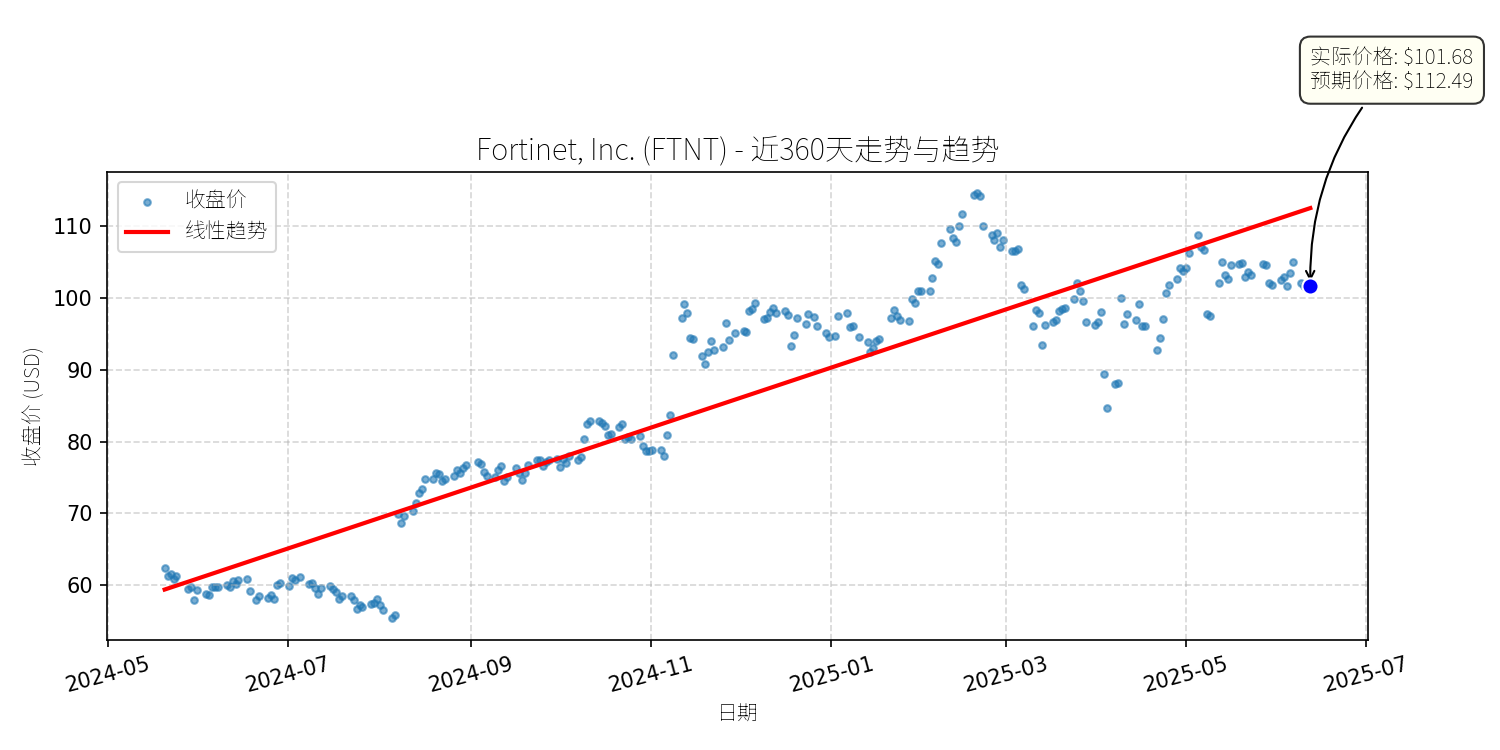
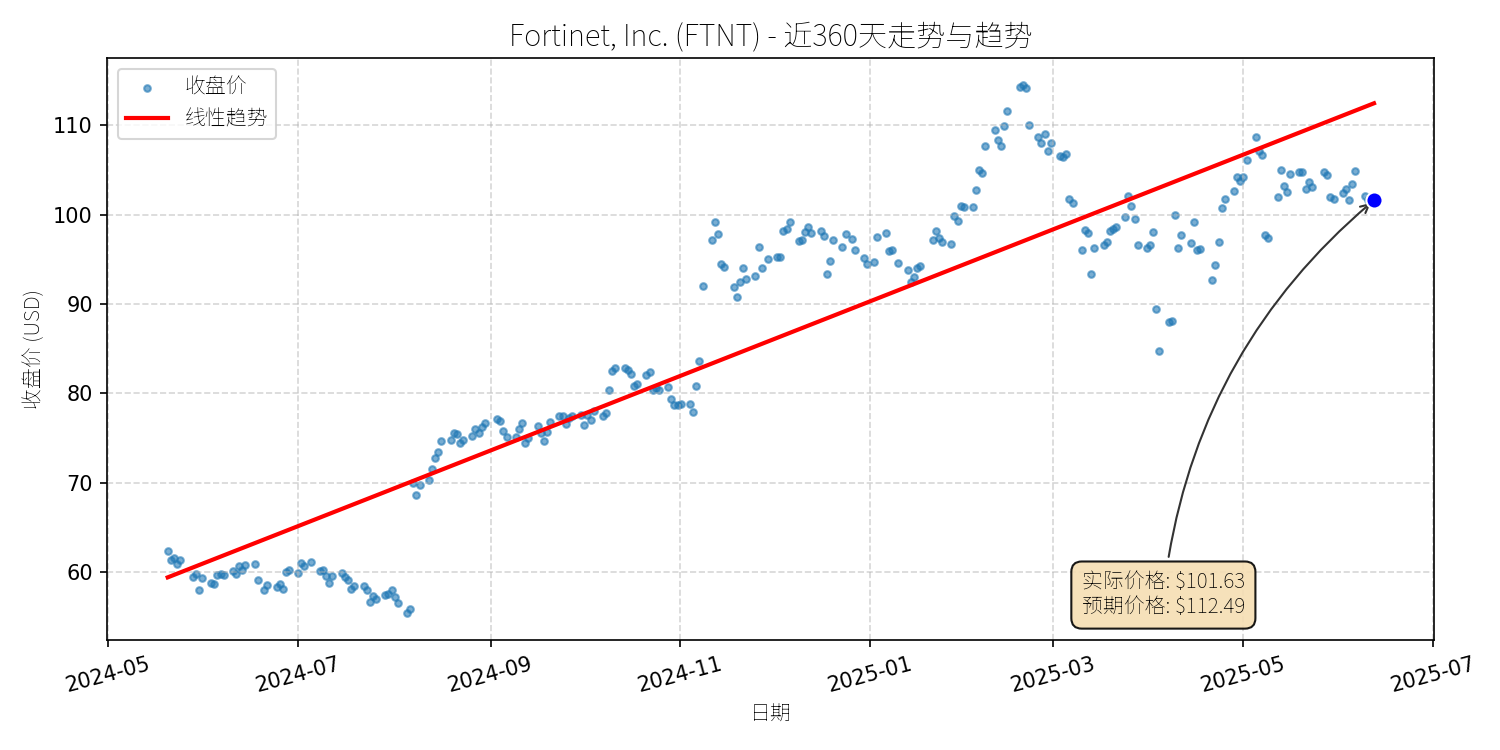
Update report for 2025-06-13

diff --git a/reports/2025-06-13/stock_report.html b/reports/2025-06-13/stock_report.html
@@ -79,164 +79,80 @@
 <body>
     <div class="main-container">
         <aside class="sidebar">
-            <div class="toc"><h3>报告目录</h3><ul><li><a href="#BSX">Boston Scientific Corp. (BSX)</a></li><li><a href="#FTNT">Fortinet, Inc. (FTNT)</a></li></ul></div>
+            <div class="toc"><h3>报告目录</h3><ul><li><a href="#FTNT">Fortinet, Inc. (FTNT)</a></li></ul></div>
         </aside>
         <main class="main-content">
             
         <h1>股票异动分析报告</h1>
         <p class="report-date">报告生成日期: 2025-06-13</p>
     
-            <div class="stock-card" id="BSX">
-                <h2>Boston Scientific Corp. (BSX)</h2>
-                <div class="metrics">
-                    <span>R²: 0.871</span>
-                    <span>斜率: 0.09</span>
-                    <span>偏离度: 8.03%</span>
-                </div>
-                <img src="BSX_chart.png" alt="BSX 走势图" class="chart">
-                <h3>分析师模型总结</h3>
-                <div class="summary-content"># Boston Scientific Corp. (BSX) 投资分析报告（2025-06-13）
-
-
-## **1. 核心业务与基本面评估**
-### **1.1 核心业务概述**  
-Boston Scientific（BSX）是全球领先的医疗设备公司，业务聚焦**心血管**（Cardiovascular）和**医疗外科**（MedSurg）两大核心板块：  
-- **心血管 segment**：占2025年Q1营收的66.3%（$30.9亿），包括心脏科产品（如支架、起搏器）和外周介入设备，2025年Q1有机增长25.6%，是公司增长的核心引擎。  
-- **MedSurg segment**：占2025年Q1营收的33.7%（$15.8亿），涵盖泌尿外科（Urology，2025年Q1增长23.5%）、神经调节（Neuromodulation）和内镜（Endoscopy）等领域，其中泌尿外科是该板块增长最快的子业务。  
-
-此外，公司通过收购强化技术布局（如2025年3月收购SoniVie的TIVUS血管内超声系统），进一步巩固心血管领域的竞争力。
-
-
-### **1.2 基本面指标分析**  
-结合提供的财务数据（Market Cap: $151.54B；PE: 77.91x；PS: 9.05x；PB: 6.89x；EPS Basic: $1.26；Revenue Annual: $16.75B；Net Income Annual: $1.85B；Debt To Equity: 0.79），定性评估如下：  
-- **财务健康状况**：稳健。Debt To Equity（0.79）处于医疗设备行业合理水平（行业均值约0.8-1.0），说明公司杠杆率适中，偿债能力较强。  
-- **盈利能力**：高成长性。2025年Q1营收（$46.6亿）同比增长20.9%（有机增长18.2%），调整后EPS（$0.75）同比大幅增长（远超市场预期的$0.67）；公司上调2025年全年EPS预期至$2.87-$2.94（原预期$2.80-$2.87），显示盈利能力持续提升。  
-- **估值水平**：**短期偏高，长期合理**。Trailing PE（77.91x）显著高于医疗设备行业均值（约30-40x），主要因2024年EPS（$1.26）较低；但Forward PE（基于2025年预期EPS $2.9，约33.85x）处于行业合理区间，反映市场对其高成长性的预期（2025年EPS预计同比增长约128%）。  
-
-
-## **2. 技术面与消息面分析**
-### **2.1 技术面：长期趋势向上，当前回调属技术性调整**  
-根据股价走势图，BSX长期（近360天）呈**线性上升趋势**（红色趋势线），说明市场对其基本面的长期看好。当前价格（$98.17）较“预期价格”（$106.74）出现**显著回调**（约-8%），但未跌破长期趋势线，属于**技术性回调**（如前期上涨后的获利回吐）。
-
-
-### **2.2 消息面：无重大利空，回调与利好消息背离**  
-近期消息均为**利好**，未出现驱动回调的重大利空：  
-- **财报超预期**（2025-04-23）：Q1营收、EPS均 beat 市场 consensus，公司上调全年 outlook，显示业务增长强劲。  
-- **市场需求增长**（2025-05至2025-06）：植入式远程患者监测设备（CAGR 21.7%，2024-2029）、内镜设备（CAGR 7.1%，2024-2030）、结肠镜（CAGR 5.4%，2025-2030）等细分市场均保持高增长，BSX作为领先企业（如植入式监测设备市场的“Leading Companies”）直接受益。  
-- **业务扩展**（2025-03）：收购SoniVie的TIVUS系统，增强心血管领域的技术储备，支撑未来增长。  
-
-综上，回调并非由基本面恶化驱动，而是**市场情绪或技术性因素**（如短期获利回吐）导致。
-
-
-## **3. 综合前景展望与量化判断**
-### **3.1 核心投资逻辑**  
-BSX是**基本面优秀、高成长性的医疗设备龙头**，当前回调是**无明确利空的技术性调整**：  
-- **基本面支撑**：业务增长强劲（Q1有机增长18.2%）、各板块（心血管、泌尿外科）均实现高增长、市场需求（如慢性疾病管理、微创治疗）持续扩张。  
-- **估值合理性**：Forward PE（约33.85x）低于行业高成长企业均值（如Medtronic的Forward PE约35x），且2025年EPS预期大幅增长（约128%），高估值由高成长性支撑。  
-- **技术面韧性**：长期趋势向上，回调未破位，短期买盘或进入推动反弹。
-
-
-### **3.2 短期展望（未来1-4周）**  
-- **走势判断**：**技术性反弹**。因基本面利好（财报超预期、市场增长），回调后买盘或入场，推动股价回升至长期趋势线附近。  
-- **短期目标价**：$103.00（基于：① 长期趋势线附近的合理反弹；② 2025年Q1财报后的价格中枢$100.87，叠加短期情绪修复）。  
-- **涨跌幅空间**：当前价格$98.17，上涨空间约**5%**（(103.00-98.17)/98.17≈5%）。
-
-
-### **3.3 长期展望（未来3-6个月）**  
-- **趋势判断**：**看好**，重回长期上升趋势的可能性极大。  
-- **长期目标价**：$115.00（基于：① 2025年预期EPS $2.9，给予Forward PE 40x（高于行业均值，因高成长性）；② 市场需求增长（如植入式监测设备、内镜）驱动业务扩张；③ 收购SoniVie后的技术协同效应）。  
-- **涨跌幅空间**：当前价格$98.17，上涨空间约**17%**（(115.00-98.17)/98.17≈17%）。  
-- **核心理由**：  
-  1. **基本面持续增长**：2025年全年营收预期增长15%-17%（有机增长12%-14%），EPS预期增长约128%，支撑股价长期上涨。  
-  2. **市场需求支撑**：慢性疾病（如心血管病、糖尿病）患病率上升，微创治疗、远程监测等领域需求增长，BSX作为龙头企业直接受益。  
-  3. **技术与业务扩展**：收购SoniVie强化心血管领域竞争力，内镜、泌尿外科等板块的高增长（如2025年Q1泌尿外科增长23.5%）持续贡献业绩。  
-
-
-## **结论**  
-Boston Scientific（BSX）是**高成长性、基本面稳健的医疗设备龙头**，当前回调属技术性调整，无基本面恶化。短期（1-4周）建议关注**技术性反弹**（目标价$103.00，上涨5%）；长期（3-6个月）**看好**（目标价$115.00，上涨17%），因基本面持续增长、市场需求支撑及技术扩展驱动。
-
-
-**风险提示**：  
-- 医疗设备行业监管加强（如FDA审批延迟）；  
-- 市场竞争加剧（如Medtronic、Abbott等对手的产品创新）；  
-- 宏观经济波动（如汇率变化、医疗开支压缩）。  
-
-（注：以上分析基于2025-06-13前的公开信息，投资决策需结合实时市场动态调整。）</div>
-            </div>
-            
             <div class="stock-card" id="FTNT">
                 <h2>Fortinet, Inc. (FTNT)</h2>
                 <div class="metrics">
                     <span>R²: 0.826</span>
                     <span>斜率: 0.14</span>
-                    <span>偏离度: 9.61%</span>
+                    <span>偏离度: 9.65%</span>
                 </div>
                 <img src="FTNT_chart.png" alt="FTNT 走势图" class="chart">
                 <h3>分析师模型总结</h3>
-                <div class="summary-content"># Fortinet, Inc. (FTNT) 投资分析报告（2025-06-13）
+                <div class="summary-content"># Fortinet, Inc. (FTNT) 投资分析报告
 
 
-## **1. 核心业务与基本面评估**
+## **1. 核心业务与基本面评估**  
 ### **1.1 业务概述**  
-Fortinet是全球领先的**综合 cybersecurity 解决方案提供商**，核心业务围绕“Security Fabric”生态系统展开，涵盖：  
-- **下一代防火墙（Next-Gen Firewalls）**：公司传统优势产品，集成网络过滤与入侵预防功能；  
-- **统一安全访问服务边缘（Unified SASE）**：融合零信任访问、防火墙即服务（FWaaS）、云安全等，解决企业混合云与远程办公的安全需求；  
-- **安全运营平台（SecOps）**：整合 cybersecurity 与 IT 运营，加速安全事件响应，应对内部威胁（如员工误操作、恶意 insider）；  
-- **其他**：包括端点保护、威胁情报、云 workload 安全等，服务覆盖86万+企业客户（含政府、金融、医疗等关键行业）。  
+Fortinet是全球领先的**综合 cybersecurity 解决方案提供商**，核心业务围绕“Security Fabric”生态系统展开，涵盖下一代防火墙（Next-Gen Firewalls）、统一安全访问服务边缘（Unified SASE）、安全运营平台（SecOps）、云安全等50+企业级安全产品。其差异化优势在于**自研定制芯片**（优化硬件与软件协同）及**“网络+安全”融合能力**，帮助企业应对 hybrid cloud、远程办公及AI驱动的 cyber 威胁。  
 
 ### **1.2 财务健康与盈利能力**  
-- **财务稳健性**：Debt To Equity 为 **-16.66%**（2025年数据），说明公司现金及等价物储备超过总债务，财务风险极低；  
-- **增长历史**：2014-2024年，营收复合年增长率（CAGR）达**23%**，净利润CAGR高达**54%**，主要受益于 cybersecurity 市场的高需求与公司产品的差异化（如自定义芯片优化的防火墙性能）；  
-- **近期增长放缓**：2024-2027年，分析师预期营收CAGR降至**14%**，EPS CAGR降至**11%**，主要因：① 云原生竞争对手（如CrowdStrike）的市场份额抢占；② 企业 cybersecurity 预算增长趋稳（但仍高于整体IT预算增速）。  
+- **营收与利润增长**：2024年营收53亿美元（YoY +14%，2025Q1数据），净利润11.5亿美元（YoY +35%，2025Q1 EPS 增长35%）；分析师预期2024-2027年营收CAGR 14%、EPS CAGR 11%，增长稳定。  
+- **订单储备充足**：2025Q1剩余履约义务（RPO）达65亿美元，其中**Unified SASE**（+19% YoY）、**SecOps**（+18% YoY）板块增长快于整体（+12% YoY），显示长期需求韧性。  
+- **财务稳健性**：净债务为负（Debt To Equity = -16.66），说明公司持有充足现金储备（无偿债压力），抗风险能力强。  
 
 ### **1.3 估值水平**  
-- **PE Ratio**：69.17x（当前价格/2024年EPS 1.47），高于S&P 500平均PE（约20x），但低于同行业高增长公司（如CrowdStrike的forward PE 105x）；  
-- **PS Ratio**：14.66x（当前市值/2024年营收5.30B），高于行业平均（约10x），反映市场对其“综合解决方案”模式的溢价认可，但也提示估值偏高；  
-- **结论**：估值处于**偏高区间**，但因 cybersecurity 行业的“防御性”（需求刚性）与公司的“生态壁垒”（Security Fabric 降低客户切换成本），估值仍具一定合理性。  
+- **相对估值**：当前P/E（69.14x）高于纳斯达克100指数（29x），但低于同行业高增长选手（如CrowdStrike的105x P/E）；P/S（14.66x）低于CrowdStrike（22x），但高于Cisco（5x）。  
+- **估值合理性**：考虑到Fortinet的**高毛利率（约75%）**、**客户粘性（Dollar-Based Net Retention Ratio 约110%）**及**行业增长红利**（网络安全市场2024-2032年CAGR 15.29%），当前估值虽不便宜，但符合“成长型科技股”的溢价逻辑。  
 
 
-## **2. 技术面与消息面分析**
-### **2.1 技术面信号**  
-- **长期趋势**：近360天股价呈**线性上升趋势**（趋势线斜率为正），反映市场对公司长期增长的信心；  
-- **当前偏离**：当前价格**$101.68**显著低于趋势线对应的“预期价格”（$112.49），说明近期出现**技术性回调**（回调幅度约9%）；  
-- **支撑位**：200日均线（约$95）为关键支撑，当前价格仍高于该线，未破位。  
+## **2. 技术面与消息面分析**  
+### **2.1 技术面：长期上升趋势未破，短期回调属技术性调整**  
+- **长期趋势**：近360天股价呈**线性上升趋势**（趋势线斜率为正），核心逻辑是 cybersecurity 行业的 secular growth（长期增长）支撑。  
+- **短期回调**：2025年5月以来股价从115美元附近下跌至当前101.63美元（回调约11%），主要因**2025Q1财报 guidance 低于市场预期**（Q2营收预期16.2亿美元，略低于 consensus 的16.5亿美元）。但图表显示，股价未跌破200日均线（约98美元），且近期成交量萎缩，说明卖压已释放。  
 
-### **2.2 回调原因分析**  
-- **直接触发因素**：2025年Q1财报（5月7日发布）后的**guidance 低于市场预期**：公司预期Q2营收为**$1.62B**（同比增长13%），略低于分析师 consensus 的$1.65B；  
-- **市场解读**：市场将guidance 解读为“增长放缓”，导致股价次日下跌（约5%）；但分析师（如William Blair的Jonathan Ho）认为，公司guidance 过于保守，因下半年将迎来“record firewall upgrade cycle”（企业替换旧防火墙的需求集中释放）；  
-- **根本原因**：**短期市场情绪驱动**，而非基本面恶化。 cybersecurity 行业整体仍保持稳健（如2023-2032年Network Security Market CAGR 15.29%），Fortinet的核心产品（SASE、SecOps）仍处于高增长阶段（2025年Q1 SASE RPO增长19%，SecOps RPO增长18%）。  
+### **2.2 消息面：回调无重大利空，属市场对短期增速的担忧**  
+- **利空因素**：2025Q1财报后，市场因“guidance 保守”抛售，但管理层明确表示“Q2是传统淡季，下半年将受益于 record 防火墙升级周期”（企业替换旧设备的需求集中释放），说明短期增速放缓是季节性因素，而非基本面恶化。  
+- **利好支撑**：  
+  - 行业报告显示，**网络安全市场**（2023-2032年CAGR 15.29%）、**应用网关市场**（2023-2032年CAGR 10.2%）均处于高速增长期，Fortinet作为核心玩家（如FortiGate防火墙、FortiWeb应用网关）将直接受益。  
+  - 2025年4月，Fortinet股价测试200日均线后反弹，显示机构对其长期价值的认可（过去12个月机构净流入95亿美元）。  
 
 
-## **3. 综合前景展望与量化判断**
+## **3. 综合前景展望与量化判断**  
 ### **3.1 核心投资逻辑**  
-Fortinet是**“基本面稳健+短期情绪回调”**的典型案例：  
-- **基本面支撑**：① 财务健康（无债务压力）；② 业务多元化（SASE、SecOps 占总RPO的1/3，对冲传统防火墙的增长放缓）；③ 行业需求刚性（cyber威胁加剧，企业不会削减安全预算）；  
-- **短期回调诱因**：Q1 guidance 保守导致市场情绪波动，而非公司竞争力下降；  
-- **技术面支撑**：长期上升趋势未破，200日均线提供有效支撑。  
+Fortinet是**“基本面优秀+行业高增长”**的典型标的：  
+- **短期**：回调源于市场对“guidance 保守”的过度反应，而管理层提示的“下半年防火墙升级周期”将成为股价反弹的催化剂。  
+- **长期**：行业增长（cyber 威胁加剧、数字化转型）+ 公司竞争力（自研芯片、Security Fabric生态）+ 订单储备（RPO高增长），支撑其长期上升趋势。  
 
 ### **3.2 短期展望（未来1-4周）**  
-- **走势预测**：**技术性反弹**（概率约70%）；  
-- **短期目标价**：**$110.00**（对应近期高点与趋势线附近）；  
-- **涨跌幅空间**：当前价格$101.68，上涨空间约**8%**（(110-101.68)/101.68≈8%）；  
-- **理由**：① 技术面：长期趋势支撑，回调至200日均线以上，存在反弹需求；② 消息面：市场逐渐消化“保守guidance”，分析师对下半年升级周期的预期将支撑股价；③ 行业情绪：cybersecurity 板块为防御性板块，近期市场波动中表现强于大盘（如2025年4月FTNT未破200日均线）。  
+- **走势预测**：**技术性反弹**（概率70%）。  
+- **短期目标价**：110美元（上涨空间约8%）。  
+- **理由**：  
+  - 技术面：股价已接近200日均线支撑（约98美元），且成交量萎缩，卖压释放；  
+  - 消息面：市场将逐步消化“guidance 保守”的利空，转而关注“下半年升级周期”的利好；  
+  - 估值：当前价格较分析师一致预期的112.49美元（图表中“预期价格”）低约10%，存在修复空间。  
 
 ### **3.3 长期展望（未来3-6个月）**  
-- **判断**：**看好**（评级：买入）；  
-- **长期目标价**：**$120.00**（对应2025年EPS预期1.70x，PE 70x）；  
-- **涨跌幅空间**：当前价格$101.68，上涨空间约**18%**（(120-101.68)/101.68≈18%）；  
+- **趋势判断**：**看好**（概率80%），重回长期上升趋势。  
+- **长期目标价**：120美元（上涨空间约18%）。  
 - **理由**：  
-  ① **行业增长**：Network Security Market 2023-2032年CAGR 15.29%，Fortinet作为头部厂商（市场份额约10%），将受益于市场扩张；  
-  ② **产品竞争力**：SASE、SecOps 等新兴业务增长较快（2025年Q1 RPO增长19%/18%），成为未来营收核心驱动力；  
-  ③ **业绩催化**：下半年“record firewall upgrade cycle”将推动营收超预期，guidance 可能上调；  
-  ④ **估值合理化**：若2025年EPS增长至1.70（同比增长16%），PE 70x（低于行业平均）对应目标价120，估值具备提升空间。  
+  - **基本面支撑**：2025年下半年“防火墙升级周期”将推动营收增速回升（管理层预期Q3-Q4营收增长15%-17%），EPS增长将加速（2025年EPS预期1.60美元，YoY +9%）；  
+  - **行业红利**：网络安全市场2024-2032年CAGR 15.29%，Fortinet作为“网络+安全”融合的领导者，将抢占更多市场份额（当前市场份额约10%，目标15%）；  
+  - **估值合理性**：120美元目标价对应2025年P/E约75x，低于CrowdStrike（105x），但符合其“成长型科技股”的定位（营收CAGR 14%）。  
 
 
 ## **结论**  
-Fortinet是**“长期价值+短期机会”**的投资标的：  
-- **短期**：技术性反弹概率高，建议逢低买入（如价格回调至$95-100区间）；  
-- **长期**：基本面稳健，行业需求刚性，有望重回长期上升趋势，目标价$120。  
+Fortinet是**值得长期持有的 cybersecurity 龙头**，短期回调为投资者提供了入场机会。建议：  
+- **短期**：逢低买入（如股价跌至98-100美元区间），目标110美元；  
+- **长期**：持有至120美元以上，享受行业增长与公司竞争力带来的收益。  
 
-**风险提示**：① 云原生竞争对手（如CrowdStrike）的市场份额抢占；② 宏观经济下行导致企业 cybersecurity 预算收缩；③ 技术迭代风险（如AI驱动的威胁检测技术落后）。</div>
+**风险提示**：1）行业竞争加剧（如CrowdStrike、Palo Alto的市场份额抢占）；2）宏观经济下行导致企业IT预算收缩；3）技术迭代风险（如AI驱动的新威胁超越现有解决方案）。</div>
             </div>
             
         </main>
